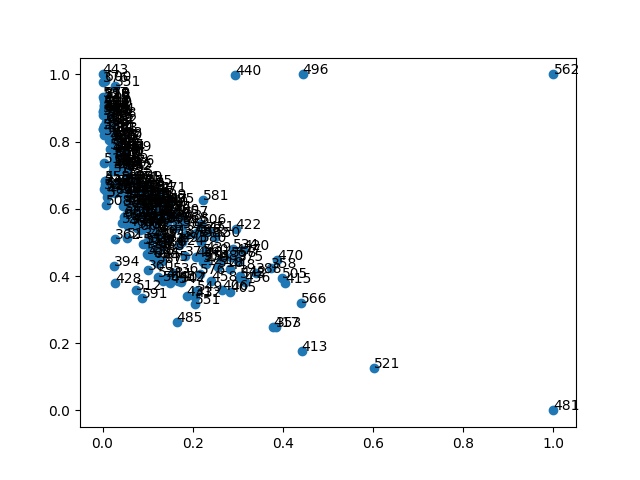
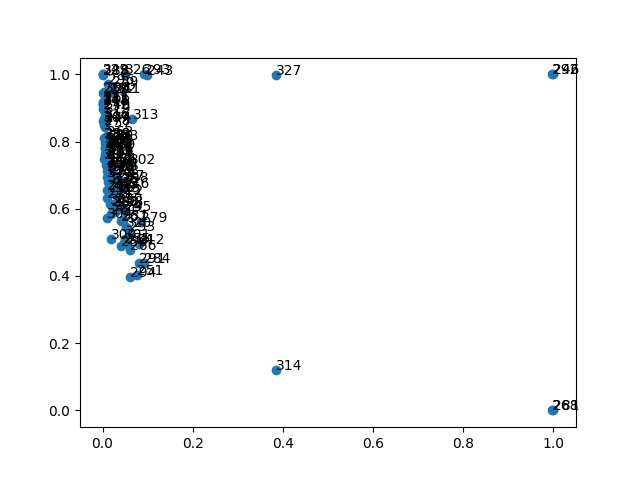
accomplish a simple version

diff --git a/DPSCD/egonet.py b/DPSCD/egonet.py
@@ -30,6 +30,7 @@ class Egonet():
         self.d_c = d_c
         self.egonet_user_ids = []
         with open(egonet_fpath, 'r') as er:
+            self.owner = int(ego_fpath.split('/')[-1].split('.')[0])
             lines = er.readlines()
             for line in tqdm(lines):
                 contents = line.strip('\r\n ').split(':')
@@ -129,11 +130,65 @@ class Egonet():
             ax.annotate(user_id, (rho, delta))
         fig.savefig("./tmp.png")
     
-    # def define_centers(self):
-    #     return 
+    def determine_centers(self, top_k=False):
+        threshold = 0.98
+        rhos_deltas_combination = self.user_rhos_npy + self.user_deltas_npy
+        center_filter = (rhos_deltas_combination > threshold)
+        center_user_ids_npy = self.user_ids_npy[center_filter]
+        # sort by local density:
+        self.center_user_ids_rhos = [(user_id, self.Rho[user_id]) for user_id in center_user_ids_npy]
+        self.center_user_ids_rhos.sort(key=lambda x: x[1])
+        self.center_user_ids = []
+        for user_id in center_user_ids_npy:
+            self.center_user_ids.append(user_id)
+            self.users[user_id].is_center = True
+
+    def assign_circles(self):
+        self.circles = defaultdict(lambda: None)
+        for center_user_id, _ in self.center_user_ids_rhos:
+            self.circles[center_user_id] = set()
+        for user_id in self.user_ids_npy:
+            if self.users[user_id].is_center: continue
+            min_dist = 1.0
+            min_dist_center_id = None
+            for center_user_id in self.center_user_ids:
+                cur_dist = self.get_distance(user_id, center_user_id)
+                if cur_dist <= min_dist:
+                    min_dist = cur_dist
+                    min_dist_center_id = center_user_id
+            self.users[min_dist_center_id].circle[user_id] = min_dist
     
-    # def initialize_clusters(self):
-        
+    def integrate_circles(self):
+        if len(self.center_user_ids_rhos) < 2: return
+        cur_nxt_center_pairs = [(self.center_user_ids[j], self.center_user_ids[j+1]) for j in range(len(self.center_user_ids)-1)]
+        for cur_center_id, nxt_center_id in cur_nxt_center_pairs:
+            cur_center_user = self.users[cur_center_id]
+            cur_circle_user_ids = cur_center_user.get_circle_list()
+            nxt_center_user = self.users[nxt_center_id]
+            if len(nxt_center_user.get_circle_list()) == 0: continue
+            for user_id in cur_circle_user_ids:
+                cur_dist = self.get_distance(user_id, nxt_center_id)
+                if cur_dist < nxt_center_user.get_circle_distsmax():
+                    nxt_center_user.circle[user_id] = cur_dist
+    
+    def get_circles(self):
+        self.determine_centers()
+        print(self.center_user_ids_rhos)
+        self.assign_circles()
+        self.integrate_circles()
+        self.circles = {}
+        for center_user_id in self.center_user_ids:
+            center_user = self.users[center_user_id]
+            self.circles[center_user_id] = center_user.get_circle_list()
+        print(self.circles)
+    
+    def get_answers(self):
+        circle_reprs = []
+        for circle_owner_id, circle_user_ids in self.circles.items():
+            circle_repr = " ".join([str(circle_owner_id)] + [str(user_id) for user_id in circle_user_ids])
+            circle_reprs.append(circle_repr)
+        self.answer = f"{self.owner}," + ";".join(circle_reprs)
+        return self.answer
 
 if __name__ == "__main__":
     featurelist_fp = '/home/andybi7676/Desktop/ds2022_finalProj/featureList.txt'
@@ -142,9 +197,11 @@ if __name__ == "__main__":
     
     users = Users(feature_fp, featurelist_fp) 
     Egonet.register_users(users)
-    ego_fpath = '/home/andybi7676/Desktop/ds2022_finalProj/egonets/345.egonet'
+    ego_fpath = '/home/andybi7676/Desktop/ds2022_finalProj/egonets/239.egonet'
     ego = Egonet(ego_fpath) 
     ego.visualize()
+    ego.get_circles()
+    print(ego.get_answers())
      
     # print(ego_0.Rho)
     # print(ego_0.delta) 

diff --git a/DPSCD/user.py b/DPSCD/user.py
@@ -59,6 +59,9 @@ class User():
         self.neighbors = set()
         self.stabilized = False
         self.local_density = 0.0
+        self.is_center = False
+        self.circle = defaultdict(self._doesnot_exists)
+        self.circle_distmax = None
     
     def __repr__(self):
         repr_str = "" 
@@ -74,6 +77,20 @@ class User():
         self.neighbors = set(neighbor_list)
         self.stabilized = True
     
+    def get_circle_list(self):
+        assert self.is_center, f"User {self.id} is not center"
+        return [user_id for user_id, _ in self.circle.items()]
+    
+    def get_circle_dists(self):
+        if len(self.get_circle_list()) == 0: return []
+        dists = [dist for _, dist in self.circle.items()]
+        return dists
+    
+    def get_circle_distsmax(self):
+        if self.circle_distmax == None:
+            self.circle_distmax = max(self.get_circle_dists())
+        return self.circle_distmax
+            
     def __len__(self):
         assert self.stabilized, f"User id={self.id} are not stabilized yet."
         return len(self.neighbors)
